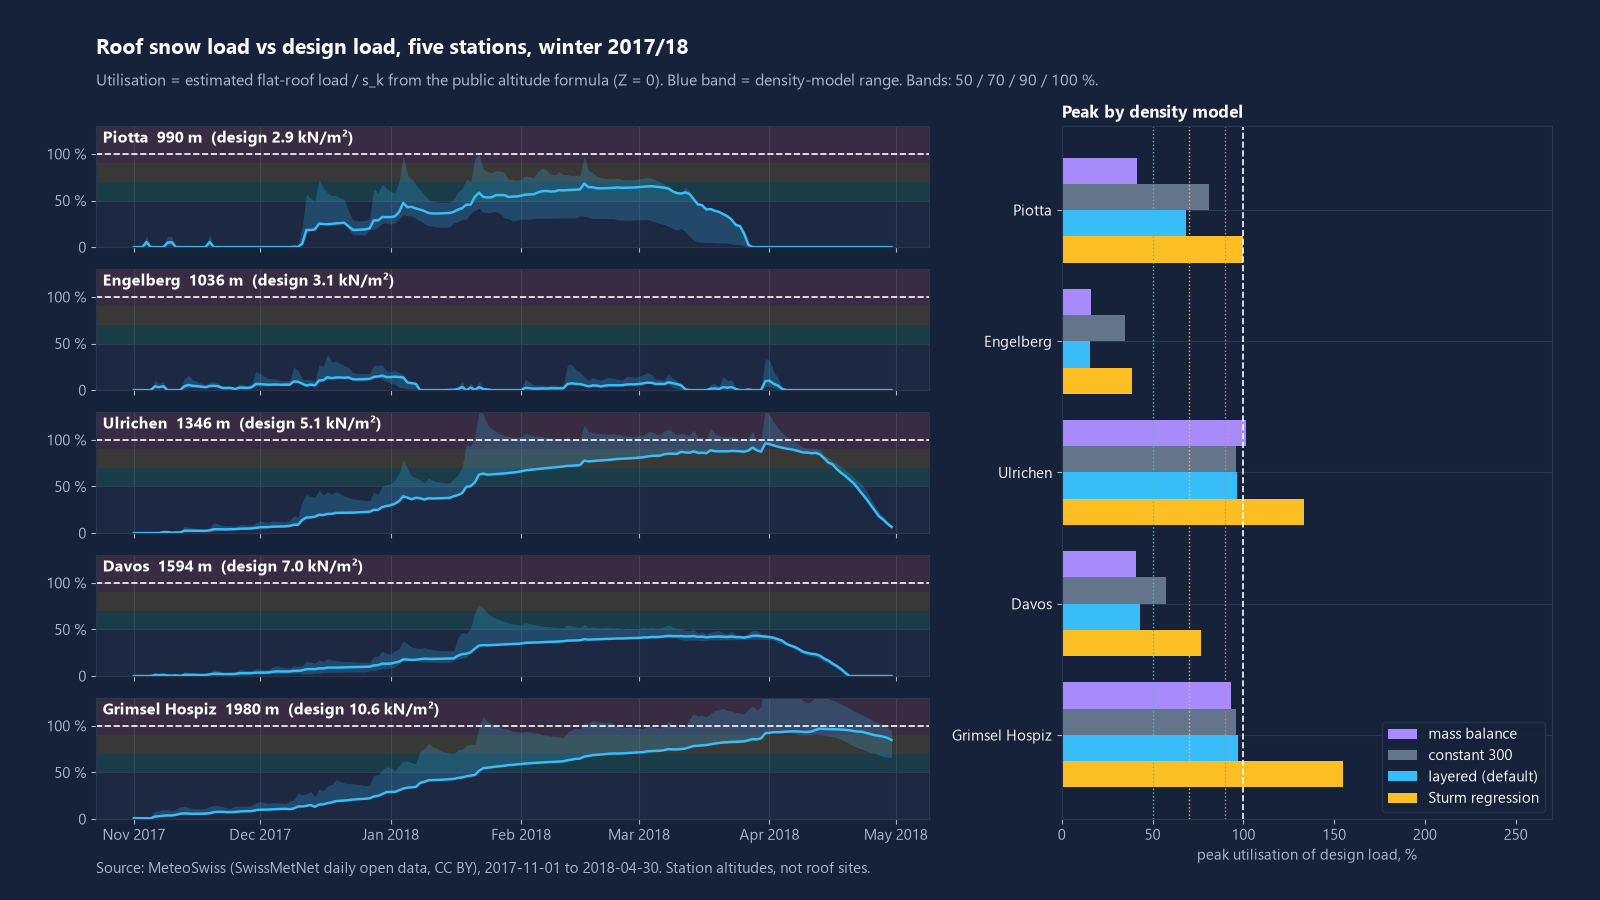
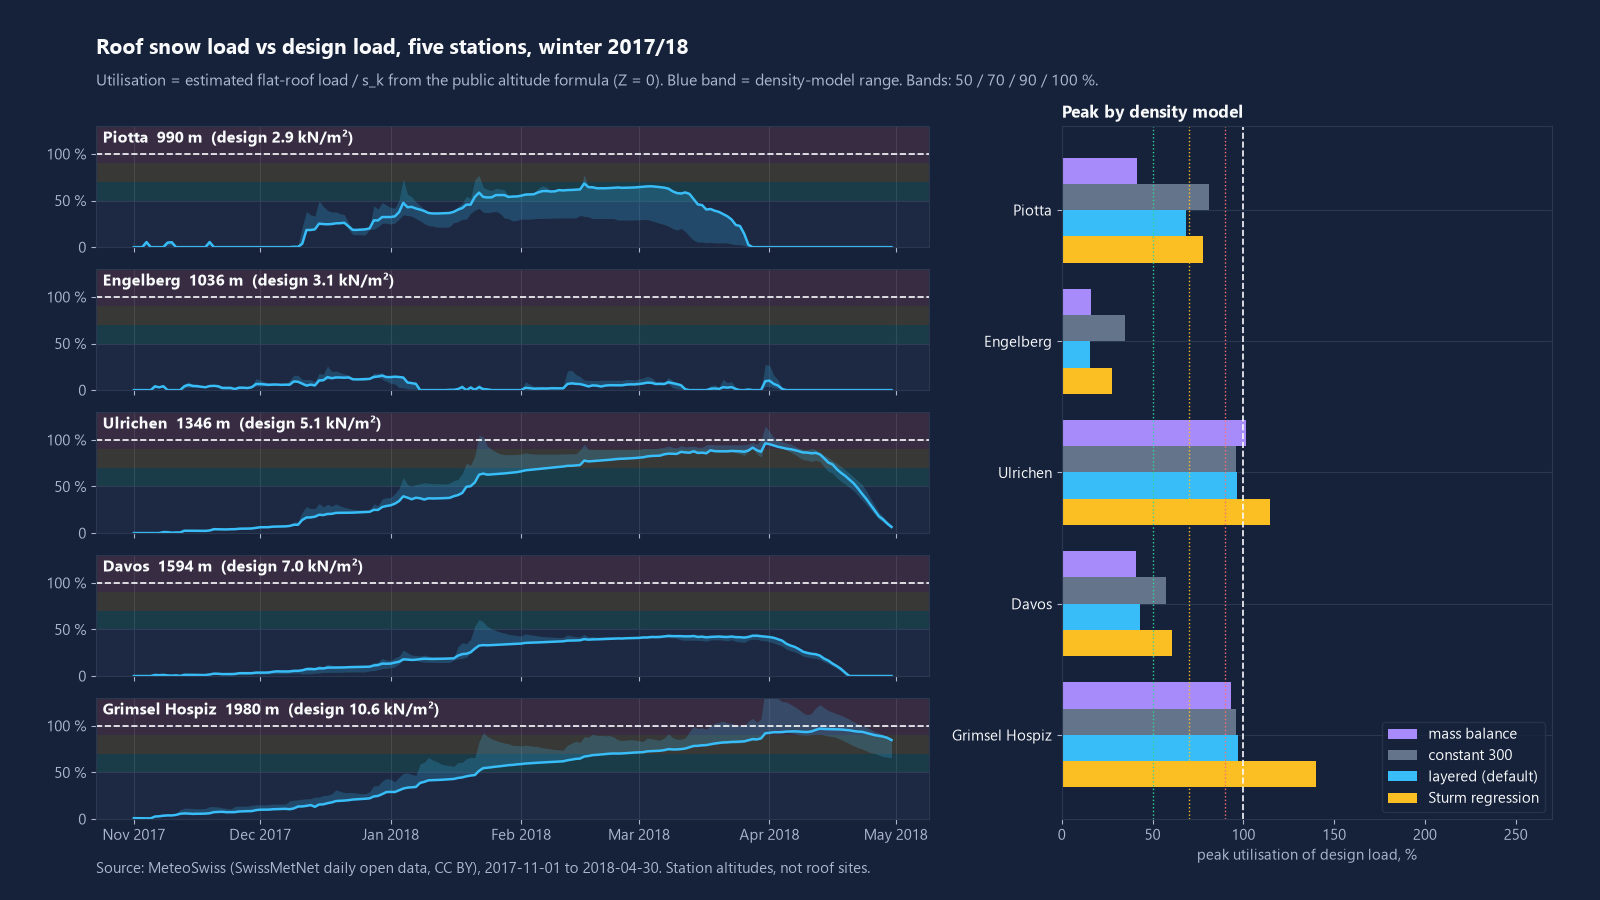
fix: Sturm density uses the paper's season day (-92 on 1 Oct), not days since 1 Oct
Checked against Sturm et al. 2010 (J. Hydrometeorol. 11, Eq. 6, Table 4):
coefficients were right, but DOY runs from -92 (1 October) to +181 (30 June),
so the old code over-densified the Sturm bound by ~92 days. Default (layered)
results are unchanged (96 %, 68 days); Sturm bounds, the fusion example and the
density-model spread (2.1x -> 2.0x) are regenerated. SIA 261 formula
cross-checked against a published Zurich appeal decision; README says so.

diff --git a/roofsnow/density.py b/roofsnow/density.py
@@ -4,9 +4,11 @@ All functions return bulk density in kg/m3 or SWE in mm (= kg/m2). 1 cm of snow 
 
 sturm_alpine : Sturm, Taras, Liston, Derksen, Jonas, Lea (2010), "Estimating snow water equivalent using
                snow depth data and climate classes", J. Hydrometeorology 11, 1380-1394.
-               rho = (rho_max - rho_0) * (1 - exp(-k1*HS - k2*DOY)) + rho_0, HS in cm, DOY = days since
-               1 October, Alpine class: rho_max 597.5, rho_0 223.7 kg/m3, k1 0.0012 /cm, k2 0.0038 /day.
-               (Coefficients transcribed from the paper's class table; check them against the paper.)
+               Eq. (6): rho = (rho_max - rho_0) * (1 - exp(-k1*HS - k2*DOY)) + rho_0, HS in cm.
+               DOY is the paper's season day: -92 on 1 October, -1 on 31 December, +1 on 1 January,
+               +181 on 30 June, no zero (paper p. 1388-1389: 1 February = 32, 15 November = -47).
+               Alpine class (Table 4, checked against the paper 2026-11-09): rho_max 0.5975,
+               rho_0 0.2237 g/cm3, k1 0.0012, k2 0.0038.
 constant     : one fixed bulk density, the simplest engineering assumption (default 300 kg/m3).
 layered      : settlement model. New snow (positive depth increments) enters as a layer at the
                temperature-dependent fresh density of Hedstrom & Pomeroy (1998), Hydrol. Process. 12,
@@ -40,7 +42,24 @@ def doy_from_oct1(date: pd.Timestamp) -> int:
     return (date.normalize() - pd.Timestamp(year=year, month=10, day=1)).days
 
 
+STURM_DOY_MIN, STURM_DOY_MAX = -92, 181
+
+
+def sturm_doy(date: pd.Timestamp) -> int:
+    """Season day as defined by Sturm et al. (2010): -92 on 1 Oct ... -1 on 31 Dec, 1 on 1 Jan ... 181 on 30 Jun.
+
+    Dates outside 1 Oct - 30 Jun are clamped to the model's range.
+    """
+    d = date.normalize()
+    if d.month >= 10:
+        doy = (d - pd.Timestamp(year=d.year + 1, month=1, day=1)).days
+    else:
+        doy = d.day_of_year
+    return int(min(max(doy, STURM_DOY_MIN), STURM_DOY_MAX))
+
+
 def sturm_density(hs_cm: float, doy: float, p: dict[str, float] | None = None) -> float:
+    """Bulk density (kg/m3) from depth (cm) and the Sturm season day `doy` (see `sturm_doy`)."""
     p = p or STURM_ALPINE
     if hs_cm is None or not math.isfinite(hs_cm) or hs_cm < 0:
         return float("nan")
@@ -60,7 +79,7 @@ def swe_constant(hs_cm: pd.Series, rho: float = 300.0) -> pd.Series:
 
 
 def swe_sturm(hs_cm: pd.Series, p: dict[str, float] | None = None) -> pd.Series:
-    doy = pd.Series([doy_from_oct1(t) for t in hs_cm.index], index=hs_cm.index)
+    doy = pd.Series([sturm_doy(t) for t in hs_cm.index], index=hs_cm.index)
     rho = pd.Series([sturm_density(h, d, p) for h, d in zip(hs_cm, doy, strict=True)], index=hs_cm.index)
     return swe_from_density(hs_cm, rho)
 

diff --git a/tests/test_density_model.py b/tests/test_density_model.py
@@ -16,6 +16,23 @@ def test_doy_from_oct1():
     assert density.doy_from_oct1(pd.Timestamp("2018-12-31")) == 91
 
 
+def test_sturm_doy_matches_paper_convention():
+    # Sturm et al. (2010): DOY runs from -92 (1 October) to +181 (30 June), no zero;
+    # 1 February is DOY 32 and 15 November is DOY -47.
+    assert density.sturm_doy(pd.Timestamp("2018-10-01")) == -92
+    assert density.sturm_doy(pd.Timestamp("2018-11-15")) == -47
+    assert density.sturm_doy(pd.Timestamp("2018-12-31")) == -1
+    assert density.sturm_doy(pd.Timestamp("2019-01-01")) == 1
+    assert density.sturm_doy(pd.Timestamp("2019-02-01")) == 32
+    assert density.sturm_doy(pd.Timestamp("2019-06-30")) == 181
+    assert density.sturm_doy(pd.Timestamp("2019-08-15")) == 181  # clamped outside the season
+
+
+def test_sturm_density_early_season_below_rho0():
+    # A negative DOY lowers density below rho_0, as the paper's equation implies.
+    assert density.sturm_density(50, -47) < density.STURM_ALPINE["rho_0"]
+
+
 def test_sturm_density_hand_value():
     # HS 100 cm, DOY 120: 223.7 + 373.8 * (1 - exp(-0.12 - 0.456))
     expect = 223.7 + 373.8 * (1 - math.exp(-0.12 - 0.456))

diff --git a/roofsnow/sensor.py b/roofsnow/sensor.py
@@ -59,7 +59,7 @@ def parse_payload(raw: bytes | str, now: datetime | None = None) -> SensorReadin
         load = standard.swe_mm_to_kn_m2(_num(obj["load_kg_m2"], "load_kg_m2"))
     elif "depth_cm" in obj:
         depth = _num(obj["depth_cm"], "depth_cm")
-        rho = density.sturm_density(depth, density.doy_from_oct1(t.tz_convert("UTC").tz_localize(None)))
+        rho = density.sturm_density(depth, density.sturm_doy(t.tz_convert("UTC").tz_localize(None)))
         load = standard.swe_mm_to_kn_m2(depth * rho / 100.0)
     else:
         raise SensorError("payload needs load_kn_m2, load_kg_m2 or depth_cm")

diff --git a/roofsnow/analysis.py b/roofsnow/analysis.py
@@ -112,9 +112,9 @@ def density_summary(runs: list[Run]) -> dict:
 
 
 def reference_density_check() -> list[dict]:
-    """Sturm model density at fixed depth/day versus values in the published class table (sanity only)."""
+    """Sturm model density at fixed depth and season day (DOY as in Sturm et al. 2010; sanity only)."""
     out = []
-    for hs, doy in [(0.0, 0), (50.0, 90), (100.0, 120), (200.0, 180)]:
+    for hs, doy in [(0.0, -92), (50.0, -2), (100.0, 32), (200.0, 120)]:
         out.append({"hs_cm": hs, "doy": doy, "rho": round(density.sturm_density(hs, doy), 0)})
     return out
 

diff --git a/roofsnow/cli.py b/roofsnow/cli.py
@@ -85,7 +85,7 @@ def live(station: str = typer.Argument("DAV2", help="IMIS code, e.g. DAV2"),
         if hs.empty:
             raise data.DataError("no valid snow depth in the response")
         last = hs.index[-1]
-        rho = density.sturm_density(float(hs.iloc[-1]), density.doy_from_oct1(last.tz_localize(None)))
+        rho = density.sturm_density(float(hs.iloc[-1]), density.sturm_doy(last.tz_localize(None)))
         load = standard.swe_mm_to_kn_m2(float(hs.iloc[-1]) * rho / 100.0)
     except (data.DataError, ValueError) as exc:
         raise _fail(str(exc)) from exc

diff --git a/README.md b/README.md
@@ -32,19 +32,19 @@ Peak utilisation per winter, default model, with the conservative Sturm regressi
 
 | Station | 2017/18 | 2018/19 | 2020/21 |
 |---|---|---|---|
-| Piotta | 68 % (100 %) | 11 % (30 %) | 76 % (126 %) |
-| Engelberg | 16 % (39 %) | 38 % (83 %) | 43 % (82 %) |
-| Ulrichen | 96 % (133 %) | 59 % (90 %) | 68 % (124 %) |
-| Davos | 43 % (77 %) | 43 % (66 %) | 38 % (60 %) |
-| Grimsel Hospiz | 97 % (155 %) | 65 % (114 %) | 79 % (133 %) |
+| Piotta | 68 % (78 %) | 11 % (23 %) | 76 % (98 %) |
+| Engelberg | 16 % (28 %) | 38 % (65 %) | 43 % (63 %) |
+| Ulrichen | 96 % (115 %) | 59 % (76 %) | 68 % (100 %) |
+| Davos | 43 % (61 %) | 43 % (56 %) | 38 % (49 %) |
+| Grimsel Hospiz | 97 % (140 %) | 65 % (102 %) | 79 % (118 %) |
 
 Across the 15 station-winters: 199 station-days at or above 70 % of design (default model). Hysteresis (5 points) cut alert level changes from 27 to 23 on daily data.
 
-**Model sensitivity (Ulrichen 2017/18, peak utilisation):** Sturm regression 133 %, mass balance 101 %, layered 96 %, constant 300 kg/m3 96 %, constant 400 kg/m3 128 %, constant 200 kg/m3 64 %. The choice of density model changes the peak load by a factor of 2.1. This uncertainty is larger than any other term in the tool, so the figures show the range. Full tables: [docs/results.md](docs/results.md).
+**Model sensitivity (Ulrichen 2017/18, peak utilisation):** constant 400 kg/m3 128 %, Sturm regression 115 %, mass balance 101 %, layered 96 %, constant 300 kg/m3 96 %, constant 200 kg/m3 64 %. The choice of density model changes the peak load by a factor of 2.0. This uncertainty is larger than any other term in the tool, so the figures show the range. Full tables: [docs/results.md](docs/results.md).
 
 **Cross-check, not validation:** the `layered` SWE (depth + temperature) and the `mass_balance` SWE (precipitation + temperature) are independent enough to compare. Correlation is 0.93 to 0.99 at Ulrichen, Grimsel and Davos in 8 of 15 station-winters, and 0.31 to 0.74 at Piotta and Engelberg, where shallow, repeatedly melting snow breaks the simple degree-day assumption. Bias ranges from -51 % to +41 %. Where the two disagree, the load estimate is weak.
 
-**Simulated sensor fusion (no real sensor):** 5 % noise on a synthetic roof sensor, Engelberg 2020/21: RMSE 0.51 kN/m2 for the station model, 0.046 for the sensor alone, 0.088 fused. A trusted sensor beats the model; fusion keeps a usable estimate when the sensor drops out.
+**Simulated sensor fusion (no real sensor):** 5 % noise on a synthetic roof sensor, Engelberg 2020/21 (98 days): synthetic truth follows the Sturm regression; RMSE 0.26 kN/m2 for the layered station model, 0.034 for the sensor alone, 0.051 fused. A trusted sensor beats the model; fusion keeps a usable estimate when the sensor drops out.
 
 ## Quick start
 
@@ -76,7 +76,7 @@ flowchart LR
     I --> J[alerts 50 / 70 / 90 %, hysteresis, action text]
 ```
 
-- **Density models** (`roofsnow/density.py`): `layered` (default) puts new snow in at the Hedstrom and Pomeroy (1998) fresh density and densifies layers toward 450 kg/m3 with a 30-day time constant (assumed, not calibrated). `sturm` is the Alpine class regression of Sturm et al. (2010, J. Hydrometeorology 11), a conservative upper estimate. `mass_balance` is a precipitation and degree-day model (factor 4 mm/K/day, range after Hock 2003). `constant` is a fixed density.
+- **Density models** (`roofsnow/density.py`): `layered` (default) puts new snow in at the Hedstrom and Pomeroy (1998) fresh density and densifies layers toward 450 kg/m3 with a 30-day time constant (assumed, not calibrated). `sturm` is the Alpine class regression of Sturm et al. (2010, J. Hydrometeorology 11, 1380-1394, Eq. 6 and Table 4, with the paper's season day: -92 on 1 October, +1 on 1 January), the highest of the three dynamic models here. `mass_balance` is a precipitation and degree-day model (factor 4 mm/K/day, range after Hock 2003). `constant` is a fixed density.
 - **Rain-on-snow**: rain above 1 degree C on an existing pack is held up to 5 % of SWE and drains 50 % per day (assumptions).
 - **Station to site**: snow mass scaled by +6 % per 100 m altitude difference (assumption), limited to 500 m.
 - **Design load**: s_k = 0.4 (1 + (h0/350)^2) kN/m2, at least 0.9, h0 = altitude + Z, valid to 2000 m; roof factors mu1 (0.8 up to 30 degrees pitch), Ce (0.8 / 1.0 / 1.2) in the style of EN 1991-1-3. The map of Z values belongs to a copyrighted standard and is not included: you supply Z, or override the design load directly.
@@ -86,14 +86,14 @@ flowchart LR
 
 - MeteoSwiss, SwissMetNet automatic stations, daily snow depth (`htoautd0`, 6 UTC), precipitation (`rre150d0`), temperature (`tre200d0`). Open government data, licence CC BY as listed in the collection `ch.meteoschweiz.ogd-smn` on data.geo.admin.ch. Source: MeteoSwiss. Cached in `roofsnow/data/smn_winters.csv` (5 stations x 3 winters, fetched 2026-11-08, rebuild with `roofsnow.data.build_fixture`). Station altitudes from MeteoSwiss station metadata.
 - SLF IMIS public measurement API (`measurement-api.slf.ch`), used only by the `live` command. It serves only the last 1, 3 or 7 days (checked 2026-11-08), so it cannot supply the archive. Follow the SLF data terms of use (https://www.slf.ch/en/services-and-products/slf-data-service); no IMIS data is committed here.
-- Ground snow load formula: public description at https://de.wikipedia.org/wiki/Schneelast_in_der_Schweiz.
+- Ground snow load formula (SIA 261:2014): public description at https://de.wikipedia.org/wiki/Schneelast_in_der_Schweiz, cross-checked against a published Zurich building-appeal decision (BRGE IV Nr. 0169/2013) that applies the same formula and the 0.9 kN/m2 minimum. Not checked against the standard text itself (paywalled).
 - Literature: Sturm et al. 2010; Hedstrom and Pomeroy 1998; Hock 2003; EN 1991-1-3.
 
 ## What is not verified yet
 
 - No validation against measured SWE. No published SWE series was used, so density models are compared with each other, not with truth.
 - No real roof, load cell or MQTT broker was used; the sensor listener and fusion are tested only with synthetic payloads.
-- Sturm coefficients were transcribed from the paper's class table and should be checked against it. Layer time constant, degree-day factor, undercatch, rain retention and altitude gradient are assumptions, not fitted.
+- Sturm coefficients and the day-of-season convention were checked against the paper (2026-11-09); an earlier version counted days from 1 October and overstated the Sturm loads. Layer time constant, degree-day factor, undercatch, rain retention and altitude gradient are assumptions, not fitted.
 - Design load uses Z = 0 for every station. Real Z values differ by location, and the public formula is documented only to 2000 m, so utilisation figures are not code checks.
 - Station sites are valley or pass stations, not roofs. Wind drifting, parapets, roof steps, sliding and clearing are not modelled; Ct = 1.
 - Daily data only: the 6 UTC depth misses intraday peaks, and precipitation is a 6-to-6 UTC total.

diff --git a/docs/results.md b/docs/results.md
@@ -26,51 +26,51 @@ Default density model: layered. Z = 0, flat roof, normal exposure.
 
 | station | winter | max_load_kn_m2 | max_util | days_ge_70 | days_ge_90 |
 |---|---|---|---|---|---|
-| PIO | 2017/18 | 2.88 | 0.999 | 50 | 4 |
-| PIO | 2018/19 | 0.88 | 0.304 | 0 | 0 |
-| PIO | 2020/21 | 3.62 | 1.257 | 39 | 5 |
-| ENG | 2017/18 | 1.21 | 0.386 | 0 | 0 |
-| ENG | 2018/19 | 2.59 | 0.829 | 4 | 0 |
-| ENG | 2020/21 | 2.55 | 0.816 | 2 | 0 |
-| ULR | 2017/18 | 6.73 | 1.332 | 90 | 83 |
-| ULR | 2018/19 | 4.56 | 0.902 | 5 | 1 |
-| ULR | 2020/21 | 6.26 | 1.24 | 57 | 12 |
-| DAV | 2017/18 | 5.32 | 0.765 | 2 | 0 |
-| DAV | 2018/19 | 4.61 | 0.663 | 0 | 0 |
-| DAV | 2020/21 | 4.2 | 0.604 | 0 | 0 |
-| GRH | 2017/18 | 16.38 | 1.551 | 112 | 94 |
-| GRH | 2018/19 | 12.06 | 1.142 | 42 | 12 |
-| GRH | 2020/21 | 14.0 | 1.326 | 93 | 61 |
+| PIO | 2017/18 | 2.24 | 0.777 | 4 | 0 |
+| PIO | 2018/19 | 0.66 | 0.228 | 0 | 0 |
+| PIO | 2020/21 | 2.83 | 0.983 | 5 | 1 |
+| ENG | 2017/18 | 0.86 | 0.275 | 0 | 0 |
+| ENG | 2018/19 | 2.01 | 0.645 | 0 | 0 |
+| ENG | 2020/21 | 1.95 | 0.625 | 0 | 0 |
+| ULR | 2017/18 | 5.8 | 1.149 | 86 | 18 |
+| ULR | 2018/19 | 3.83 | 0.758 | 1 | 0 |
+| ULR | 2020/21 | 5.07 | 1.004 | 17 | 4 |
+| DAV | 2017/18 | 4.23 | 0.608 | 0 | 0 |
+| DAV | 2018/19 | 3.86 | 0.555 | 0 | 0 |
+| DAV | 2020/21 | 3.4 | 0.488 | 0 | 0 |
+| GRH | 2017/18 | 14.81 | 1.403 | 99 | 50 |
+| GRH | 2018/19 | 10.74 | 1.017 | 21 | 4 |
+| GRH | 2020/21 | 12.47 | 1.18 | 81 | 25 |
 
 ## Density-model sensitivity, winter 2017/18
 
 | station | model | max_swe_mm | max_load_kn_m2 | max_util | days_ge_70 | mean_rho_kg_m3 |
 |---|---|---|---|---|---|---|
-| PIO | sturm | 362.0 | 2.88 | 0.999 | 50 | 374.0 |
+| PIO | sturm | 285.0 | 2.24 | 0.777 | 4 | 282.0 |
 | PIO | layered | 251.0 | 1.97 | 0.683 | 0 | 277.0 |
 | PIO | mass_balance | 145.0 | 1.2 | 0.416 | 0 | 145.0 |
 | PIO | constant 200 | 198.0 | 1.55 | 0.54 | 0 | 200.0 |
 | PIO | constant 300 | 297.0 | 2.33 | 0.809 | 4 | 300.0 |
 | PIO | constant 400 | 396.0 | 3.11 | 1.079 | 56 | 400.0 |
-| ENG | sturm | 153.0 | 1.21 | 0.386 | 0 | 350.0 |
+| ENG | sturm | 109.0 | 0.86 | 0.275 | 0 | 248.0 |
 | ENG | layered | 59.0 | 0.49 | 0.156 | 0 | 162.0 |
 | ENG | mass_balance | 63.0 | 0.49 | 0.158 | 0 | 166.0 |
 | ENG | constant 200 | 92.0 | 0.72 | 0.231 | 0 | 200.0 |
 | ENG | constant 300 | 138.0 | 1.08 | 0.347 | 0 | 300.0 |
 | ENG | constant 400 | 184.0 | 1.45 | 0.463 | 0 | 400.0 |
-| ULR | sturm | 856.0 | 6.73 | 1.332 | 90 | 387.0 |
+| ULR | sturm | 738.0 | 5.8 | 1.149 | 86 | 299.0 |
 | ULR | layered | 618.0 | 4.86 | 0.963 | 68 | 274.0 |
 | ULR | mass_balance | 652.0 | 5.13 | 1.014 | 88 | 320.0 |
 | ULR | constant 200 | 412.0 | 3.23 | 0.64 | 0 | 200.0 |
 | ULR | constant 300 | 618.0 | 4.85 | 0.96 | 71 | 300.0 |
 | ULR | constant 400 | 824.0 | 6.47 | 1.28 | 89 | 400.0 |
-| DAV | sturm | 678.0 | 5.32 | 0.765 | 2 | 374.0 |
+| DAV | sturm | 539.0 | 4.23 | 0.608 | 0 | 281.0 |
 | DAV | layered | 382.0 | 3.01 | 0.433 | 0 | 262.0 |
 | DAV | mass_balance | 365.0 | 2.86 | 0.412 | 0 | 232.0 |
 | DAV | constant 200 | 340.0 | 2.67 | 0.384 | 0 | 200.0 |
 | DAV | constant 300 | 510.0 | 4.0 | 0.575 | 0 | 300.0 |
 | DAV | constant 400 | 680.0 | 5.34 | 0.767 | 2 | 400.0 |
-| GRH | sturm | 2087.0 | 16.38 | 1.551 | 112 | 408.0 |
+| GRH | sturm | 1888.0 | 14.81 | 1.403 | 99 | 329.0 |
 | GRH | layered | 1304.0 | 10.24 | 0.969 | 68 | 263.0 |
 | GRH | mass_balance | 1253.0 | 9.83 | 0.931 | 71 | 296.0 |
 | GRH | constant 200 | 860.0 | 6.75 | 0.639 | 0 | 200.0 |
@@ -105,10 +105,10 @@ Hysteresis over all 15 station-winters: 23 level changes with 5-point hysteresis
 {
  "station": "ENG",
  "winter": "2020/21",
- "days": 101,
+ "days": 98,
  "noise_rel": 0.05,
- "rmse_model_kn_m2": 0.51,
- "rmse_sensor_kn_m2": 0.046,
- "rmse_fused_kn_m2": 0.088
+ "rmse_model_kn_m2": 0.261,
+ "rmse_sensor_kn_m2": 0.034,
+ "rmse_fused_kn_m2": 0.051
 }
 ```
